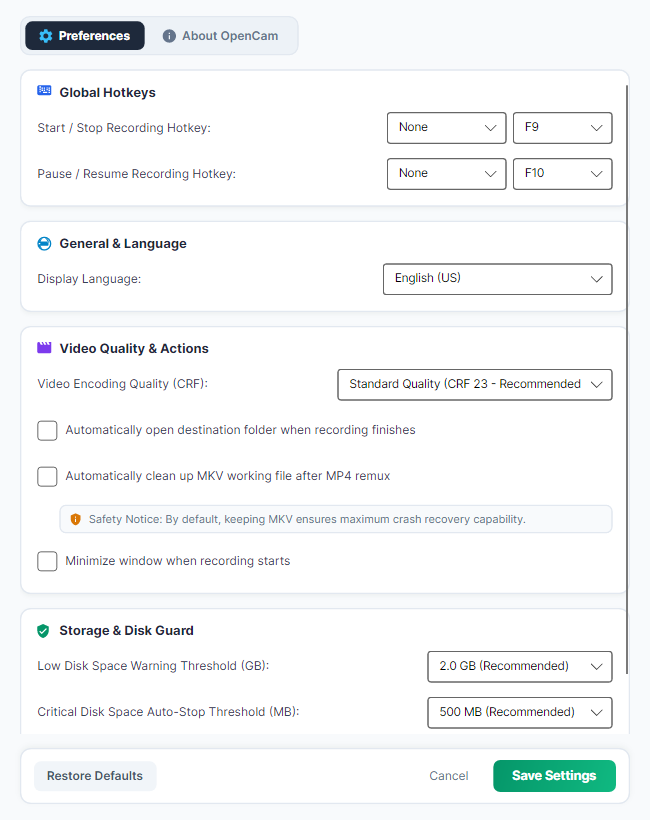
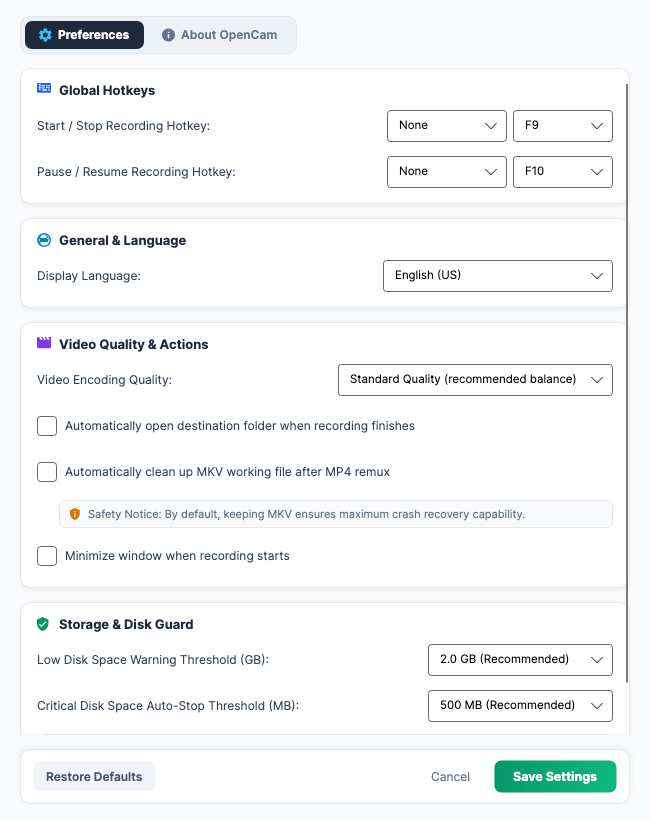
docs: refresh v0.2.0 site, guides, and screenshots

diff --git a/website/src/site.css b/website/src/site.css
@@ -17,11 +17,13 @@ a { color: inherit; }
 .nav-links a:hover, .text-link:hover { color: #137a57; }
 .nav-links .language-switch { padding: 6px 15px; border: 1px solid #bfd6c7; border-radius: 100px; background: white; }
 .hero { overflow: hidden; background: radial-gradient(circle at 77% 44%, #dff3e4, transparent 40%), linear-gradient(145deg, #fbfdfa, #eff7f0); }
-.hero-grid { display: grid; grid-template-columns: .93fr 1.07fr; align-items: center; gap: 44px; min-height: 630px; padding-block: 75px 90px; }
+.hero-grid { display: grid; grid-template-columns: minmax(0, 1fr); gap: 34px; padding-block: 75px 90px; }
+.hero-copy { max-width: 880px; }
 .eyebrow, .section-kicker { color: #137a57; font-size: .73rem; font-weight: 800; letter-spacing: .16em; text-transform: uppercase; }
 .eyebrow { display: flex; align-items: center; gap: 10px; }
 .eyebrow-dot { width: 8px; height: 8px; border-radius: 50%; background: #20ae72; box-shadow: 0 0 0 5px #daf1e2; }
 .hero h1 { font-size: clamp(3.1rem, 5.4vw, 5.9rem); line-height: 1.06; letter-spacing: -.065em; margin: 24px 0; }
+.hero-line { display: block; white-space: nowrap; }
 .hero h1 em { color: #137a57; font-style: normal; }
 .hero-text { max-width: 550px; color: #53665b; font-size: 1.11rem; line-height: 1.8; }
 .hero-actions { display: flex; flex-wrap: wrap; gap: 12px; margin-top: 32px; }
@@ -33,18 +35,22 @@ a { color: inherit; }
 .hero-meta, .visual-caption, .preview-note { color: #6b8072; font-size: .78rem; }
 .hero-meta { margin: 17px 0 0; }
 .release-license-note { max-width: 520px; margin: 9px 0 0; color: #53665b; font-size: .78rem; line-height: 1.55; }
-.hero-visual { position: relative; padding: 30px 0 0 20px; }
+.hero-visual { position: relative; width: min(100%, 840px); }
 .window-halo { position: absolute; inset: 5% -10% 0 12%; border-radius: 50%; background: #86dba454; filter: blur(55px); }
-.hero-visual img { position: relative; display: block; border-radius: 16px; border: 1px solid #bfd7c6; box-shadow: 0 32px 70px #164d3038; transform: rotate(-2deg); }
-.visual-caption { position: relative; display: block; text-align: right; margin-top: 23px; }
+.screenshot-link { display: block; width: fit-content; max-width: 100%; border-radius: 10px; }
+.hero-visual img { position: relative; display: block; width: 100%; border-radius: 16px; border: 1px solid #bfd7c6; box-shadow: 0 32px 70px #164d3038; }
+.visual-caption { position: relative; display: block; margin-top: 15px; }
 .section { padding-block: 105px; }
 .section-intro { max-width: 720px; margin-bottom: 39px; }
 .section h2 { font-size: clamp(2.2rem, 3.7vw, 3.7rem); line-height: 1.16; letter-spacing: -.05em; margin: 12px 0 18px; }
 .section-intro > p:last-child, .final-cta p:not(.section-kicker) { color: #56695d; font-size: 1.03rem; }
 .screenshot-section, .platform-section { background: white; }
-.screenshot-grid, .platform-grid { display: grid; grid-template-columns: 1fr 1fr; gap: 24px; }
-.screenshot-card { margin: 0; padding: 15px; border: 1px solid #dce9df; border-radius: 19px; background: #f6f9f6; box-shadow: 0 10px 30px #102c1c0b; }
+.screenshot-grid { display: grid; grid-template-columns: minmax(0, 1fr); gap: 30px; }
+.platform-grid { display: grid; grid-template-columns: 1fr 1fr; gap: 24px; }
+.screenshot-card { margin: 0; padding: 15px; max-width: 872px; border: 1px solid #dce9df; border-radius: 19px; background: #f6f9f6; box-shadow: 0 10px 30px #102c1c0b; }
+.screenshot-card.settings-card { max-width: 682px; }
 .screenshot-card img { display: block; width: 100%; border: 1px solid #d7e2da; border-radius: 10px; }
+.screenshot-card figcaption a { color: #0a7652; text-underline-offset: 3px; }
 .screenshot-card figcaption { padding: 15px 5px 2px; color: #617669; font-size: .81rem; font-weight: 700; }
 .preview-note { margin: 18px 0 0; }
 .features-section { background: #f2f8f3; }
@@ -77,8 +83,9 @@ a { color: inherit; }
 .language-entry { min-height: 100vh; display: flex; flex-direction: column; align-items: center; justify-content: center; padding: 30px; text-align: center; background: radial-gradient(circle, #e6f6e9, transparent 60%); }
 .language-entry h1 { margin: 20px 0 0; font-size: 3rem; letter-spacing: -.06em; }
 .language-entry a { display: inline-block; margin: 8px; padding: 12px 20px; border-radius: 12px; background: #137a57; color: white; font-weight: 750; text-decoration: none; }
-@media (max-width: 900px) { .hero-grid { grid-template-columns: 1fr; min-height: 0; padding-block: 65px; } .hero-copy, .hero-visual { max-width: 700px; } .hero-visual { padding-left: 0; } .feature-grid { grid-template-columns: repeat(2, 1fr); } }
-@media (max-width: 650px) { .container, .nav-wrap { width: calc(100% - 32px); } .nav-wrap { min-height: 66px; } .nav-links { gap: 10px; } .nav-links a { font-size: .78rem; } .nav-links a:first-child { display: none; } .nav-links .language-switch { padding: 6px 10px; } .hero-grid { gap: 23px; padding-block: 54px 70px; } .hero h1 { font-size: clamp(2.7rem, 11vw, 4.3rem); } .hero-text { font-size: 1rem; } .hero-visual img { transform: none; } .section { padding-block: 74px; } .screenshot-grid, .feature-grid, .platform-grid, .process-grid { grid-template-columns: 1fr; } .feature-card { min-height: 0; } .process-grid { gap: 35px; } .final-cta-inner { display: block; } .final-cta-inner .button { margin-top: 15px; } .site-footer .container { flex-wrap: wrap; } }
+@media (max-width: 900px) { .hero-grid { padding-block: 65px; } .feature-grid { grid-template-columns: repeat(2, 1fr); } }
+@media (max-width: 650px) { .container, .nav-wrap { width: calc(100% - 32px); } .nav-wrap { min-height: 66px; } .nav-links { gap: 10px; } .nav-links a { font-size: .78rem; } .nav-links a:first-child { display: none; } .nav-links .language-switch { padding: 6px 10px; } .hero-grid { gap: 23px; padding-block: 54px 70px; } .eyebrow { font-size: .7rem; letter-spacing: .06em; } .hero h1 { font-size: clamp(1.9rem, 11vw, 4.3rem); } .hero-text { font-size: 1rem; } .section { padding-block: 74px; } .feature-grid, .platform-grid, .process-grid { grid-template-columns: 1fr; } .feature-card { min-height: 0; } .process-grid { gap: 35px; } .final-cta-inner { display: block; } .final-cta-inner .button { margin-top: 15px; } .site-footer .container { flex-wrap: wrap; } }
+@media (max-width: 650px) { .hero h1:lang(en-US) { font-size: clamp(1.35rem, 9vw, 4.3rem); } }
 @media (max-width: 350px) { .brand { font-size: 1rem; } .nav-links { gap: 6px; } .nav-links .language-switch { padding: 5px 7px; } .button { width: 100%; } }
 @media (prefers-reduced-motion: reduce) { *, *::before, *::after { scroll-behavior: auto !important; transition-duration: .01ms !important; animation-duration: .01ms !important; } }
 .guide-shell { display: grid; grid-template-columns: 245px minmax(0, 1fr); gap: 65px; align-items: start; padding-block: 64px 110px; }

diff --git a/src/ScreenRecorder.UI/ViewModels/MainViewModel.cs b/src/ScreenRecorder.UI/ViewModels/MainViewModel.cs
@@ -61,6 +61,7 @@ public partial class MainViewModel : ObservableObject
     private readonly IDisplayService _displayService;
     private readonly IAudioDeviceService _audioDeviceService;
     private readonly ISettingsService _settingsService;
+    private readonly bool _forScreenshot;
     private readonly IEncoderDetector _encoderDetector;
     private readonly IGlobalHotkeyService? _globalHotkeyService;
     private readonly IMacOsScreenCapturePermissionService? _macOsScreenCapturePermissionService;
@@ -617,11 +618,18 @@ public partial class MainViewModel : ObservableObject
         return (long)Math.Round(value * multiplier, MidpointRounding.AwayFromZero);
     }
 
-    public MainViewModel()
+    public MainViewModel(bool forScreenshot = false)
     {
+        _forScreenshot = forScreenshot;
         _storageService = new StorageService();
-        _outputDirectory = _storageService.GetDefaultRecordingsPath();
-        _settingsService = new SettingsService();
+        _outputDirectory = forScreenshot
+            ? Path.Combine(OperatingSystem.IsMacOS() ? "/private/tmp" : Path.GetTempPath(),
+                "OpenCam-Preview", "Recordings")
+            : _storageService.GetDefaultRecordingsPath();
+        _settingsService = forScreenshot
+            ? new SettingsService(Path.Combine(Path.GetTempPath(), "OpenCam-Preview",
+                $"settings-{Environment.ProcessId}.json"))
+            : new SettingsService();
         
         IFFmpegPlatformProvider ffmpegPlatformProvider = OperatingSystem.IsWindows() ? new ScreenRecorder.Platform.Windows.WindowsFFmpegProvider() : new ScreenRecorder.Platform.macOS.MacOsFFmpegProvider();
 
@@ -692,16 +700,26 @@ public partial class MainViewModel : ObservableObject
         SelectedEncoder = AvailableEncoders[0];
 
         // 載入使用者持久化設定 (包含介面語系、FPS、音訊、儲存位置與快捷鍵)
-        LoadUserSettings();
+        if (forScreenshot)
+        {
+            // Documentation captures must not read or overwrite personal
+            // preferences, output paths, or unfinished recording sessions.
+            RecordSystemAudio = false;
+            _isLoadingSettings = false;
+        }
+        else
+        {
+            LoadUserSettings();
+        }
 
         // 非同步掃描未完成之錄影
-        _ = CheckRecoverableSessionsAsync();
+        if (!forScreenshot) _ = CheckRecoverableSessionsAsync();
 
         // 立即探測目標存放磁碟之剩餘空間 (更新介面顯示 -- GB)
         UpdateDiskSpaceRemaining();
 
         // 註冊 Windows 全域快捷鍵 (預設 F9 開始/停止，F10 暫停/繼續)
-        if (OperatingSystem.IsWindows())
+        if (!forScreenshot && OperatingSystem.IsWindows())
         {
             try
             {
@@ -1814,7 +1832,7 @@ public partial class MainViewModel : ObservableObject
 
         try
         {
-            if (_ipcClient != null)
+            if (ShouldSendGlobalShutdownOnCleanup)
             {
                 // 發送 Shutdown 通知 Recorder 正常結束常駐
                 _ = _ipcClient.SendCommandAsync("Shutdown", new { }, timeoutMs: 800);
@@ -1834,4 +1852,6 @@ public partial class MainViewModel : ObservableObject
         }
         catch { }
     }
+
+    internal bool ShouldSendGlobalShutdownOnCleanup => !_forScreenshot && _ipcClient != null;
 }

diff --git a/src/ScreenRecorder.UI/App.axaml.cs b/src/ScreenRecorder.UI/App.axaml.cs
@@ -39,7 +39,15 @@ public partial class App : Application
                 }
             }
 
-            var viewModel = new MainViewModel();
+            var screenshotIndex = ScreenshotArgumentIndex(desktop.Args);
+            var screenshotMode = screenshotIndex >= 0;
+            if (screenshotMode && (screenshotIndex + 1 >= desktop.Args!.Length ||
+                string.IsNullOrWhiteSpace(desktop.Args[screenshotIndex + 1]) ||
+                desktop.Args[screenshotIndex + 1].StartsWith("--", StringComparison.Ordinal)))
+            {
+                throw new ArgumentException("--screenshot requires an output file path.");
+            }
+            var viewModel = new MainViewModel(forScreenshot: screenshotMode);
             var mainWindow = new MainWindow
             {
                 DataContext = viewModel
@@ -55,9 +63,9 @@ public partial class App : Application
                 }
             };
 
-            if (desktop.Args != null && desktop.Args.Length >= 2 && desktop.Args[0] == "--screenshot")
+            if (screenshotMode)
             {
-                var outputPath = desktop.Args[1];
+                var outputPath = desktop.Args![screenshotIndex + 1];
                 ScreenRecorder.Core.Localization.AppLanguage? overrideLang = null;
                 string stateMode = "idle";
                 for (int i = 0; i < desktop.Args.Length - 1; i++)
@@ -129,7 +137,8 @@ public partial class App : Application
                             var sh = (int)settingsWin.Height;
                             if (sw <= 0) sw = 650;
                             if (sh <= 0) sh = 820;
-                            using var rtb = new RenderTargetBitmap(new PixelSize(sw, sh), new Vector(96, 96));
+                            using var rtb = new RenderTargetBitmap(
+                                new PixelSize(sw, sh), new Vector(96, 96));
                             rtb.Render(settingsWin);
                             rtb.Save(outputPath);
                         }
@@ -151,7 +160,8 @@ public partial class App : Application
                         var h = (int)mainWindow.Height;
                         if (w <= 0) w = 840;
                         if (h <= 0) h = 740;
-                        using var rtb = new RenderTargetBitmap(new PixelSize(w, h), new Vector(96, 96));
+                        using var rtb = new RenderTargetBitmap(
+                            new PixelSize(w, h), new Vector(96, 96));
                         rtb.Render(mainWindow);
                         rtb.Save(outputPath);
                     }
@@ -171,6 +181,17 @@ public partial class App : Application
     }
 
     private MainWindow? _mainWindow;
+
+    internal static int ScreenshotArgumentIndex(string[]? args)
+    {
+        if (args is null) return -1;
+        for (var index = 0; index < args.Length; index++)
+        {
+            if (args[index].Equals("--screenshot", StringComparison.OrdinalIgnoreCase))
+                return index;
+        }
+        return -1;
+    }
 
     public void OnTrayIconClicked(object? sender, EventArgs e)
     {

diff --git a/tests/ScreenRecorder.Media.Tests/FoolproofUiLogicTests.cs b/tests/ScreenRecorder.Media.Tests/FoolproofUiLogicTests.cs
@@ -8,6 +8,32 @@ namespace ScreenRecorder.Media.Tests;
 public class FoolproofUiLogicTests
 {
     [Fact]
+    public void DocumentationScreenshot_UsesNeutralTemporaryProfile()
+    {
+        var vm = new MainViewModel(forScreenshot: true);
+
+        Assert.True(vm.IsMonitorSelected);
+        Assert.False(vm.IsCustomRegion);
+        Assert.False(vm.RecordMicrophone);
+        Assert.False(vm.RecordSystemAudio);
+        Assert.Equal(0, vm.RecoverableSessionCount);
+        Assert.StartsWith(OperatingSystem.IsMacOS() ? "/private/tmp" : Path.GetTempPath(),
+            vm.OutputDirectory, StringComparison.Ordinal);
+        Assert.False(vm.ShouldSendGlobalShutdownOnCleanup);
+        vm.Cleanup();
+    }
+
+    [Fact]
+    public void DocumentationScreenshot_FindsFlagRegardlessOfArgumentOrderOrCase()
+    {
+        Assert.Equal(2, ScreenRecorder.UI.App.ScreenshotArgumentIndex(
+            ["--lang", "en", "--SCREENSHOT", "/private/tmp/preview.png"]));
+        Assert.Equal(0, ScreenRecorder.UI.App.ScreenshotArgumentIndex(
+            ["--screenshot", "/private/tmp/preview.png"]));
+        Assert.Equal(-1, ScreenRecorder.UI.App.ScreenshotArgumentIndex(["--lang", "zh"]));
+    }
+
+    [Fact]
     public void UnconfirmedStartup_AllowsStopButBlocksCloseAndSettings()
     {
         var vm = new MainViewModel { IsPreparing = true };

diff --git a/README.md b/README.md
@@ -14,14 +14,24 @@ OpenCam 是一款以可靠性為優先的跨平台桌面螢幕錄影工具。錄
 
 🌐 [OpenCam 官方網站](https://kaoshou.github.io/OpenCam/)（可切換繁體中文／English）
 
-目前原始碼版本為 **0.2.0**，採用 **AGPL-3.0-or-later**；下方的 v0.1.5 下載連結是先前發布版本，其原授權不受此次變更影響。尚未發布 0.2.0 安裝包。
+目前版本為 **0.2.0**，採用 **AGPL-3.0-or-later**。Windows 與 Apple Silicon macOS 安裝包請至 [v0.2.0 Release](https://github.com/kaoshou/OpenCam/releases/tag/v0.2.0) 下載；先前版本仍依當時的授權條款提供。
 
-> 以下為 Windows 介面預覽；macOS 使用相同的主要操作流程。
+以下為 **0.2.0** 在 macOS 上的實際畫面。點選圖片可檢視原尺寸，避免縮小後看不清選項文字。
 
-![OpenCam 主畫面](docs/images/preview_main_zhtw.png)
-![OpenCam 偏好設定](docs/images/preview_settings_zhtw.png)
+[![OpenCam 0.2.0 macOS 主畫面](docs/images/preview_main_zhtw.png)](docs/images/preview_main_zhtw.png)
+[![OpenCam 0.2.0 macOS 偏好設定](docs/images/preview_settings_zhtw.png)](docs/images/preview_settings_zhtw.png)
 
-## v0.1.5 重點更新
+## v0.2.0 重點更新
+
+- 錄製指定螢幕時，點選螢幕清單旁的辨識圖示，可在所有已連接顯示器上短暫顯示編號，並標示目前選取的螢幕。
+- 自訂矩形選取框保持透明，可拖曳移動及調整大小。
+- 錄影狀態區分開顯示系統聲音與麥克風的即時音量波形，方便確認是否收到聲音；波形不是成品音軌的品質保證。
+- 錄影啟動後會鎖定不會即時生效的選項；暫停後仍可調整系統聲音、麥克風與游標樣式。
+- 錄影期間關閉視窗會先提醒並保護工作階段，避免無意中斷。
+
+完整安裝檔請至 [OpenCam v0.2.0 Release](https://github.com/kaoshou/OpenCam/releases/tag/v0.2.0) 下載。
+
+## v0.1.5 歷史更新
 
 - 修正錄影畫質、磁碟警告門檻與成功封裝後清理 MKV 等偏好設定未完整套用到 Recorder 的問題。
 - 修正錄影正常停止後，UI 可能因最後狀態訊息而誤判為中斷的問題。
@@ -65,7 +75,7 @@ OpenCam 是一款以可靠性為優先的跨平台桌面螢幕錄影工具。錄
 
 ### macOS 13 Ventura 或以上（Apple Silicon／arm64）
 
-> v0.1.5 尚未提供 Intel Mac（x64）版本。
+> v0.2.0 尚未提供 Intel Mac（x64）版本。
 
 - 前往 [Releases](https://github.com/kaoshou/OpenCam/releases) 頁面並下載 `OpenCam_macOS_AppleSilicon.dmg`。
 - 打開 DMG，將 `OpenCam.app` 拖曳至「應用程式（Applications）」資料夾。
@@ -77,7 +87,7 @@ OpenCam 是一款以可靠性為優先的跨平台桌面螢幕錄影工具。錄
   xattr -cr /Applications/OpenCam.app
   ```
 
-### macOS v0.1.5 注意事項
+### macOS v0.2.0 注意事項
 
 - 系統音訊錄製需要 macOS 13 或以上版本，並使用 Apple ScreenCaptureKit。
 - 麥克風錄製使用 macOS 系統目前的預設輸入裝置。若要改用另一支麥克風，請先在 macOS 聲音設定中切換預設輸入裝置，再開始或暫停後繼續錄影。
@@ -109,14 +119,24 @@ OpenCam is built with .NET 8, Avalonia UI, and FFmpeg, and supports Windows and 
 
 🌐 [OpenCam official website](https://kaoshou.github.io/OpenCam/) (English / 繁體中文)
 
-The current source version is **0.2.0**, licensed under **AGPL-3.0-or-later**. The v0.1.5 download linked below is an earlier release and retains its original license. No 0.2.0 installer has been published yet.
+The current version is **0.2.0**, licensed under **AGPL-3.0-or-later**. Download the Windows and Apple Silicon macOS packages from the [v0.2.0 Release](https://github.com/kaoshou/OpenCam/releases/tag/v0.2.0). Earlier releases retain their original license terms.
 
-> The screenshots below show the Windows interface. The primary workflow is the same on macOS.
+These are actual screenshots of **0.2.0** on macOS. Select an image to view it at full size so the interface text stays legible.
 
-![OpenCam Main Window](docs/images/preview_main_enus.png)
-![OpenCam Settings Window](docs/images/preview_settings_enus.png)
+[![OpenCam 0.2.0 macOS main window](docs/images/preview_main_enus.png)](docs/images/preview_main_enus.png)
+[![OpenCam 0.2.0 macOS preferences](docs/images/preview_settings_enus.png)](docs/images/preview_settings_enus.png)
 
-## What's New in v0.1.5
+## What's New in v0.2.0
+
+- In monitor mode, use the identify icon beside the monitor list to briefly show a numbered label on every connected display and highlight the selected one.
+- The custom-region frame remains transparent and can be moved and resized.
+- Separate live level waveforms for system audio and microphone help confirm input activity; they do not guarantee the quality of the finished audio track.
+- Settings that cannot take effect mid-session lock as soon as recording starts; system audio, microphone, and cursor style remain adjustable while paused.
+- Closing the window during recording shows a warning and protects the active session against accidental interruption.
+
+Download the installers from the [OpenCam v0.2.0 Release](https://github.com/kaoshou/OpenCam/releases/tag/v0.2.0).
+
+## Earlier v0.1.5 Changes
 
 - Fixed preferences that were not fully propagated to the Recorder, including video quality, disk-warning thresholds, and MKV cleanup after successful remuxing.
 - Fixed a case where the UI could interpret the final status message after a normal stop as an interrupted recording.
@@ -159,7 +179,7 @@ Download the installers from the [OpenCam v0.1.5 Release](https://github.com/kao
 
 ### macOS 13 Ventura or later (Apple Silicon/arm64)
 
-> OpenCam v0.1.5 does not provide an Intel Mac (x64) build.
+> OpenCam v0.2.0 does not provide an Intel Mac (x64) build.
 
 - Go to the [Releases](https://github.com/kaoshou/OpenCam/releases) page and download `OpenCam_macOS_AppleSilicon.dmg`.
 - Mount the DMG and drag `OpenCam.app` to the Applications folder.
@@ -171,7 +191,7 @@ Download the installers from the [OpenCam v0.1.5 Release](https://github.com/kao
   xattr -cr /Applications/OpenCam.app
   ```
 
-### macOS v0.1.5 Notes
+### macOS v0.2.0 Notes
 
 - System-audio recording requires macOS 13 or later and uses Apple ScreenCaptureKit.
 - Microphone recording uses the current macOS default input device. To use another microphone, select it as the default input in macOS Sound settings before starting, or while the recording is paused.

diff --git a/docs/USER_GUIDE.en-US.md b/docs/USER_GUIDE.en-US.md
@@ -2,7 +2,7 @@
 
 OpenCam is a reliability-first screen recorder for Windows and macOS. During recording, it writes to interruption-resistant MKV working files and packages them as MP4 after a normal stop. If a crash, power failure, or forced termination occurs, Crash Recovery can attempt to preserve content that was already written successfully.
 
-> This guide covers the current OpenCam interface. The main workflow is the same on Windows and macOS; platform differences are called out where applicable.
+> This guide covers OpenCam v0.2.0. The main workflow is the same on Windows and macOS; platform differences are called out where applicable.
 
 ## 1. System Requirements and First Launch
 
@@ -42,7 +42,7 @@ If startup status cannot be confirmed, settings remain locked but **Stop** is av
 
 Records the complete image from the selected display. If multiple displays are connected, choose one from the monitor list.
 
-If you are unsure which physical display is “Monitor 1/2/3…”, select monitor mode and click **Identify Displays**. OpenCam briefly shows the matching number on every connected display, highlighting the selected one. This works with any number of displays. If geometry or scaling makes a match uncertain, OpenCam omits that label and shows a notice rather than risk identifying the wrong screen. Labels are dismissed when recording preparation begins and do not appear in the video.
+If you are unsure which physical display is “Monitor 1/2/3…”, select monitor mode and click the compact **Identify Displays** icon to the right of the monitor list (hover for its tooltip). OpenCam briefly shows the matching number on every connected display, highlighting the selected one. This works with any number of displays. If geometry or scaling makes a match uncertain, OpenCam omits that label and shows a notice rather than risk identifying the wrong screen. Labels are dismissed when recording preparation begins and do not appear in the video.
 
 “Complete image” means the entire selected monitor; OpenCam does not combine all displays into one video. The monitor source is locked after recording starts. Stop the current recording before switching displays.
 
